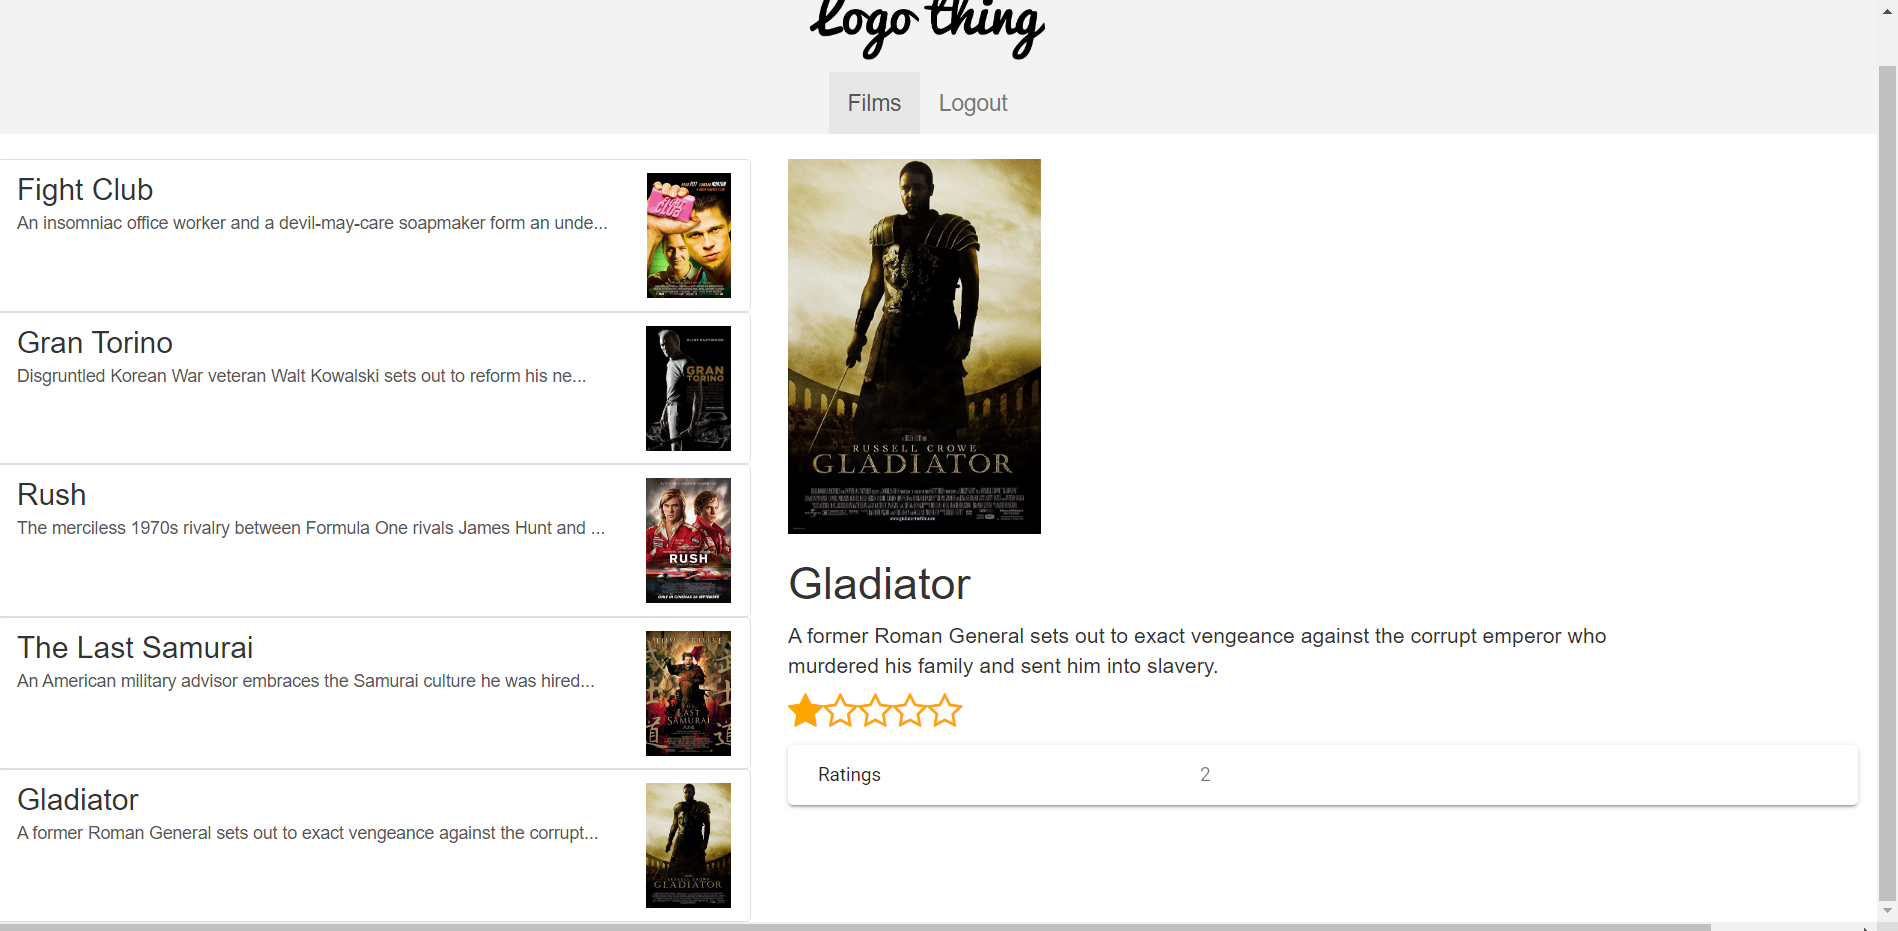
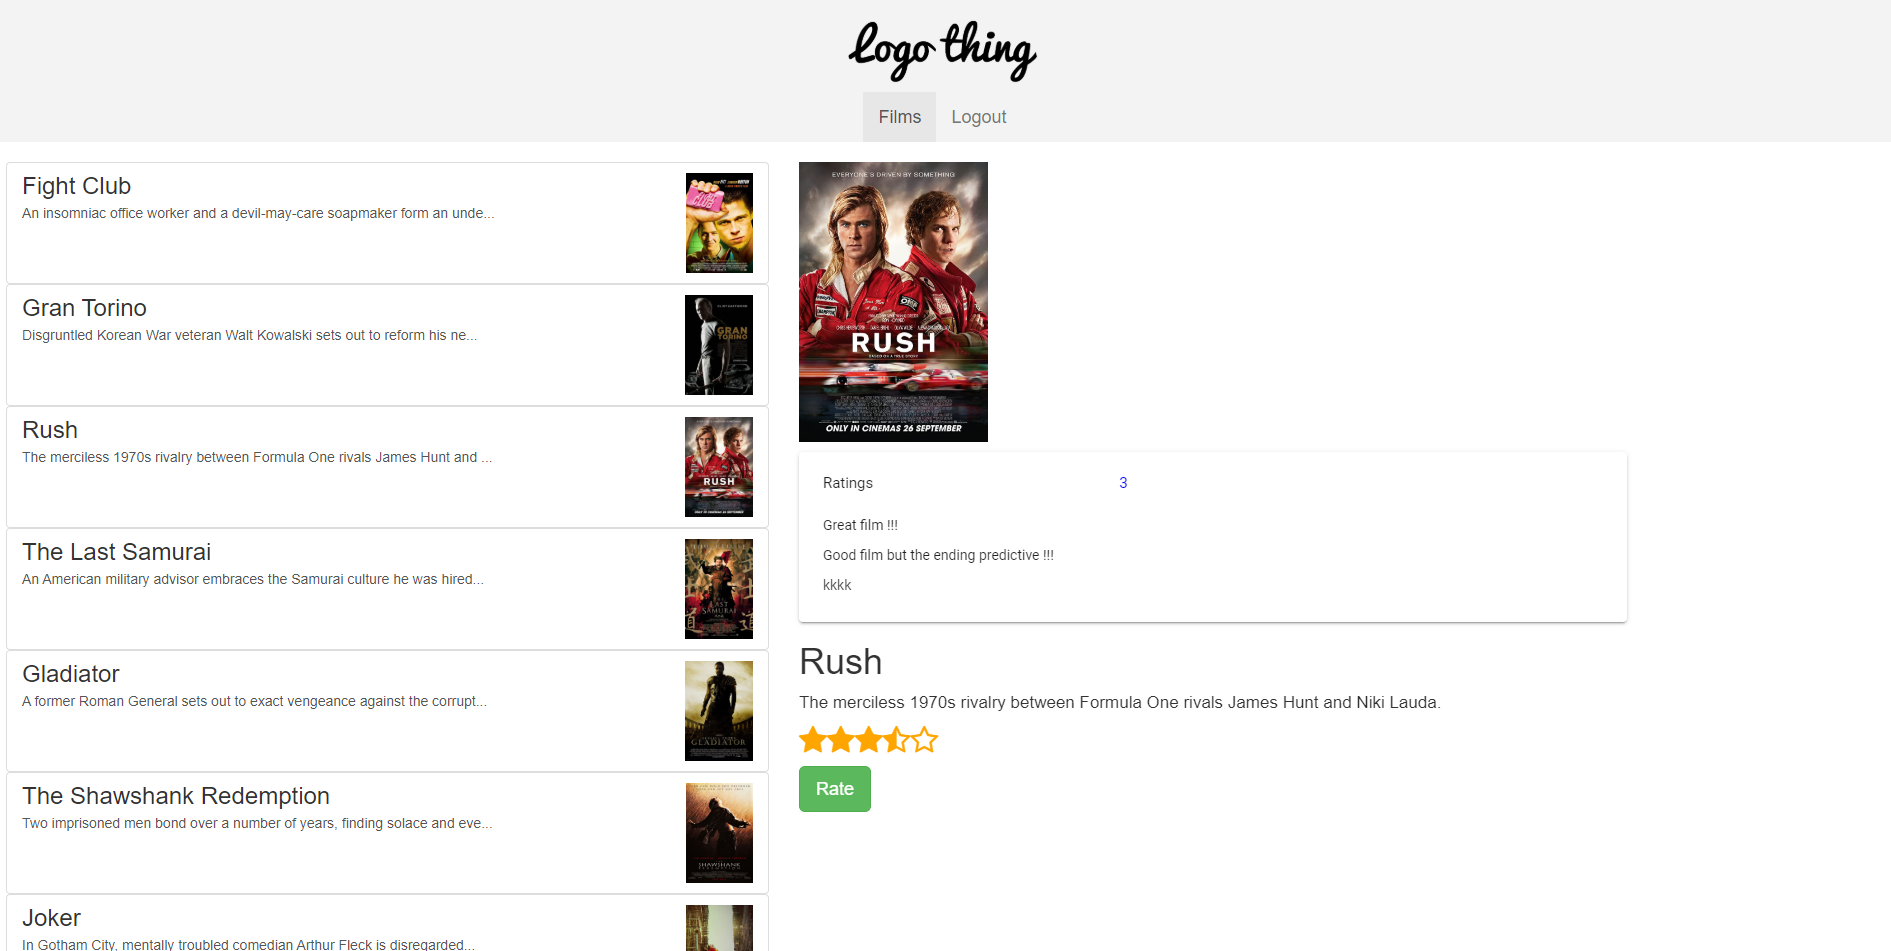
adding ratings

Changed region(s): [[0.0, 0.0, 1.0, 1.0], [0.0, 0.1869, 0.312, 0.2492]]

diff --git a/frontend/src/app/films/film-detail/film-detail.component.html b/frontend/src/app/films/film-detail/film-detail.component.html
@@ -1,11 +1,31 @@
 <div class="row">
   <div class="col-lg-12">
-    <img style="max-height: 300px;"
+    <img style="max-height: 280px;"
          [src]="film.imageUrl" alt="{{film.title}}" class="img-responsive">
   </div>
+
 </div>
 <div class="row">
-  <div class="col-xs-12">
+  <div class="col-lg-10">
+    <mat-expansion-panel hideToggle style="margin-top: 10px;">
+      <mat-expansion-panel-header>
+        <mat-panel-title >
+          Ratings
+        </mat-panel-title>
+        <mat-panel-description style="color: blue!important;">
+          {{ratings ? ratings.length : 0}}
+        </mat-panel-description>
+      </mat-expansion-panel-header>
+      <div style="overflow: auto!important; max-height: 150px;">
+        <p *ngFor="let rating of ratings">{{rating.description}}</p>
+      </div>
+    </mat-expansion-panel>
+  </div>
+</div>
+
+<div class="row">
+  <div class="col-lg-12">
+
     <h1>{{film.title}}</h1>
   </div>
 </div>
@@ -29,19 +49,5 @@
                color="warn"></mat-spinner>
 </ng-template>
 
-<div class="row" style="margin-top: 10px;">
-  <div class="col-lg-12">
-    <mat-expansion-panel hideToggle>
-      <mat-expansion-panel-header>
-        <mat-panel-title>
-          Ratings
-        </mat-panel-title>
-        <mat-panel-description>
-          {{ratings.length}}
-        </mat-panel-description>
-      </mat-expansion-panel-header>
-      <p *ngFor="let rating of ratings">{{rating.description}}</p>
-    </mat-expansion-panel>
-  </div>
-</div>
+<button class="btn btn-success btn-lg" (click)="addRating()" style="margin-top: 10px;">Rate</button>
 

diff --git a/frontend/src/app/add-rating/add-rating.component.html b/frontend/src/app/add-rating/add-rating.component.html
@@ -1,0 +1,37 @@
+<div class="row">
+  <div class="col-lg-6 col-lg-offset-3">
+    <img style="max-height: 300px; display: block; margin: auto;"
+         [src]="film.imageUrl" alt="{{film.title}}" class="img-responsive">
+    <form id="search-form" [formGroup]="addRatingForm" style="font-size: 20px;">
+
+      <mat-form-field class="form-field" appearance="outline">
+        <mat-label> Description
+        </mat-label>
+        <input matInput formControlName="description" required>
+        <mat-error *ngIf="addRatingForm.controls.description.touched && addRatingForm.controls.description.invalid">
+          <span *ngIf="addRatingForm.controls.description.errors.required">This field is mandatory.</span>
+          <span *ngIf="addRatingForm.controls.description.errors.pattern">This field is invalid.</span>
+        </mat-error>
+      </mat-form-field>
+
+      <mat-form-field class="form-field" appearance="outline">
+        <mat-label> Stars
+        </mat-label>
+        <input matInput formControlName="stars" type="number" min="0" max="5" required>
+        <mat-error *ngIf="addRatingForm.controls.stars.touched && addRatingForm.controls.stars.invalid">
+          <span *ngIf="addRatingForm.controls.stars.errors.required">This field is mandatory.</span>
+          <span *ngIf="addRatingForm.controls.stars.errors.pattern">This field is invalid.</span>
+        </mat-error>
+      </mat-form-field>
+
+
+
+
+
+
+      <button (click)="addRating()" class="btn btn-success btn-lg center-block" >Add Rating</button>
+
+    </form>
+  </div>
+</div>
+

diff --git a/frontend/src/app/add-rating/add-rating.component.ts b/frontend/src/app/add-rating/add-rating.component.ts
@@ -1,0 +1,47 @@
+import {Component, OnInit} from '@angular/core';
+import {FormBuilder, FormGroup, Validators} from '@angular/forms';
+import {FilmService} from '../films/film.service';
+import {Router} from '@angular/router';
+import {RatingModel} from '../films/rating.model';
+import {StarRatingComponent} from 'ng-starrating';
+
+@Component({
+  selector: 'app-add-rating',
+  templateUrl: './add-rating.component.html',
+  styleUrls: ['./add-rating.component.css']
+})
+export class AddRatingComponent implements OnInit {
+
+  addRatingForm: FormGroup;
+  film;
+
+  constructor(private formBuilder: FormBuilder, private filmService: FilmService, private router: Router) {
+    this.film = this.router.getCurrentNavigation().extras.state?.film;
+  }
+
+  ngOnInit(): void {
+
+    this.addRatingForm = this.formBuilder.group({
+      description: [null, Validators.required],
+      stars: [null, Validators.required]
+    });
+  }
+
+
+  addRating() {
+
+    if (!this.addRatingForm.valid || this.addRatingForm.value.stars > 5 || this.addRatingForm.value.stars < 0) {
+      return;
+    }
+    const value = this.addRatingForm.value;
+    const newRating = new RatingModel(null, this.film.id, value.stars, value.description);
+
+    this.filmService.addRating(newRating).subscribe(res => {
+      console.log(res);
+      this.router.navigateByUrl('/films');
+    });
+
+
+  }
+
+}

diff --git a/frontend/src/app/app.module.ts b/frontend/src/app/app.module.ts
@@ -17,11 +17,17 @@ import {MatIconModule} from '@angular/material/icon';
 import {MatButtonModule} from '@angular/material/button';
 import {MatProgressSpinnerModule} from '@angular/material/progress-spinner';
 import {MatExpansionModule} from '@angular/material/expansion';
+import { AddRatingComponent } from './add-rating/add-rating.component';
+import {ReactiveFormsModule} from '@angular/forms';
+import {MatInputModule} from '@angular/material/input';
+import {MatFormFieldModule} from '@angular/material/form-field';
+import {RatingModule} from 'ng-starrating';
 
 
 const appRoutes: Routes = [
   {path: '', component: HomeComponent },
-  {path: 'films', component: FilmsComponent}
+  {path: 'films', component: FilmsComponent},
+  {path: 'addRating', component: AddRatingComponent}
 ];
 
 @NgModule({
@@ -31,7 +37,8 @@ const appRoutes: Routes = [
     FilmListComponent,
     FilmDetailComponent,
     FilmItemComponent,
-    HomeComponent
+    HomeComponent,
+    AddRatingComponent
 
   ],
   imports: [
@@ -43,7 +50,12 @@ const appRoutes: Routes = [
     MatIconModule,
     MatButtonModule,
     MatProgressSpinnerModule,
-    MatExpansionModule
+    MatExpansionModule,
+    MatFormFieldModule,
+    MatInputModule,
+    MatButtonModule,
+    ReactiveFormsModule,
+    RatingModule
   ],
   providers: [FilmService ,     {
     provide: HTTP_INTERCEPTORS,

diff --git a/frontend/src/app/films/film-detail/film-detail.component.ts b/frontend/src/app/films/film-detail/film-detail.component.ts
@@ -1,6 +1,7 @@
 import {Component, Input, OnChanges, OnInit, SimpleChanges} from '@angular/core';
 import {FilmModel} from '../film.model';
 import {FilmService} from '../film.service';
+import {Router} from '@angular/router';
 
 @Component({
   selector: 'app-film-detail',
@@ -16,7 +17,7 @@ export class FilmDetailComponent implements OnInit, OnChanges {
   show = false;
   ratings;
 
-  constructor(private filmService: FilmService) {
+  constructor(private filmService: FilmService, private router: Router) {
   }
 
   ngOnInit(): void {
@@ -77,6 +78,10 @@ export class FilmDetailComponent implements OnInit, OnChanges {
 
     return this.rating % 1 !== 0;
 
+  }
+
+  addRating() {
+    this.router.navigateByUrl('/addRating', {state: {film : this.film}});
   }
 
 

diff --git a/frontend/src/app/add-rating/add-rating.component.spec.ts b/frontend/src/app/add-rating/add-rating.component.spec.ts
@@ -1,0 +1,25 @@
+import { async, ComponentFixture, TestBed } from '@angular/core/testing';
+
+import { AddRatingComponent } from './add-rating.component';
+
+describe('AddRatingComponent', () => {
+  let component: AddRatingComponent;
+  let fixture: ComponentFixture<AddRatingComponent>;
+
+  beforeEach(async(() => {
+    TestBed.configureTestingModule({
+      declarations: [ AddRatingComponent ]
+    })
+    .compileComponents();
+  }));
+
+  beforeEach(() => {
+    fixture = TestBed.createComponent(AddRatingComponent);
+    component = fixture.componentInstance;
+    fixture.detectChanges();
+  });
+
+  it('should create', () => {
+    expect(component).toBeTruthy();
+  });
+});

diff --git a/frontend/src/app/films/films.component.html b/frontend/src/app/films/films.component.html
@@ -3,10 +3,12 @@
     <app-film-list></app-film-list>
   </div>
   <div class="col-md-7">
-    <app-film-detail *ngIf="selectedFilm; else infoText"
+    <div class="affix" >
+      <app-film-detail *ngIf="selectedFilm; else infoText"
                        [film]="selectedFilm"></app-film-detail>
-    <ng-template #infoText>
-      <h3>Please select a film!</h3>
-    </ng-template>
+      <ng-template #infoText>
+        <h3>Please select a film!</h3>
+      </ng-template>
+    </div>
   </div>
 </div>

diff --git a/frontend/src/app/app.component.html b/frontend/src/app/app.component.html
@@ -14,7 +14,7 @@
         </button>
       </div>
       <div *ngIf="show"  class="collapse navbar-collapse" id="navbar-primary-collapse">
-        <ul class="nav navbar-nav" style="font-size: 15px;">
+        <ul class="nav navbar-nav" style="font-size: 12px;">
           <li role="presentation" routerLinkActive="active" ><a routerLink="films" >Films</a></li>
           <li  role="presentation" routerLinkActive="active" (click)="logout()"><a>Logout</a></li>
 

diff --git a/frontend/src/app/films/film.service.ts b/frontend/src/app/films/film.service.ts
@@ -23,4 +23,8 @@ export class FilmService {
     const params = new HttpParams().set('id', filmId);
     return this.httpService.get<Array<RatingModel>>(this.BASIC_RATING_URL + 'ratings', {params});
   }
+
+  addRating(rating) {
+    return this.httpService.post<RatingModel>(this.BASIC_RATING_URL + 'ratings', rating);
+  }
 }

diff --git a/frontend/src/app/add-rating/add-rating.component.css b/frontend/src/app/add-rating/add-rating.component.css
@@ -1,0 +1,13 @@
+
+
+.form-field{
+  display: block;
+  margin-top: 10px;
+}
+
+.my-class{
+  width: 100px!important;
+  height: 40px!important;
+  min-width: unset!important;
+  font-size:  20px!important;
+}

diff --git a/rating-microservice/src/main/java/com/rating/rating/rating/RatingController.java b/rating-microservice/src/main/java/com/rating/rating/rating/RatingController.java
@@ -1,8 +1,11 @@
 package com.rating.rating.rating;
 
 import org.springframework.beans.factory.annotation.Autowired;
+import org.springframework.security.core.Authentication;
+import org.springframework.security.core.annotation.AuthenticationPrincipal;
 import org.springframework.web.bind.annotation.*;
 
+import java.security.Principal;
 import java.util.List;
 import java.util.Optional;
 
@@ -14,13 +17,14 @@ public class RatingController {
     private RatingService ratingService;
 
     @GetMapping
-    public List<Rating> findRatingsByBookId(@RequestParam(required = false) Optional<Long> id) {
+    public List<Rating> findRatingsByBookId(@RequestParam(required = false) Optional<Long> id, Authentication auth, @AuthenticationPrincipal Principal userInfo) {
         return id.map(ratingService::findRatingsByFilmId)
                 .orElseGet(ratingService::findAllRatings);
     }
 
     @PostMapping
-    public Rating createRating(@RequestBody Rating rating) {
+    public Rating createRating(@RequestBody Rating rating, @AuthenticationPrincipal Principal userInfo) {
+        System.out.println(userInfo.getName());
         return ratingService.createRating(rating);
     }
 }

diff --git a/rating-microservice/src/main/java/com/rating/rating/rating/RatingService.java b/rating-microservice/src/main/java/com/rating/rating/rating/RatingService.java
@@ -1,10 +1,12 @@
 package com.rating.rating.rating;
 
 import org.springframework.beans.factory.annotation.Autowired;
+import org.springframework.security.core.annotation.AuthenticationPrincipal;
 import org.springframework.stereotype.Service;
 import org.springframework.transaction.annotation.Propagation;
 import org.springframework.transaction.annotation.Transactional;
 
+import java.security.Principal;
 import java.util.List;
 
 @Service
@@ -25,6 +27,7 @@ public class RatingService {
 
     @Transactional(propagation = Propagation.REQUIRED)
     public Rating createRating(Rating rating) {
+
         Rating newRating = new Rating();
         newRating.setFilmId(rating.getFilmId());
         newRating.setStars(rating.getStars());
